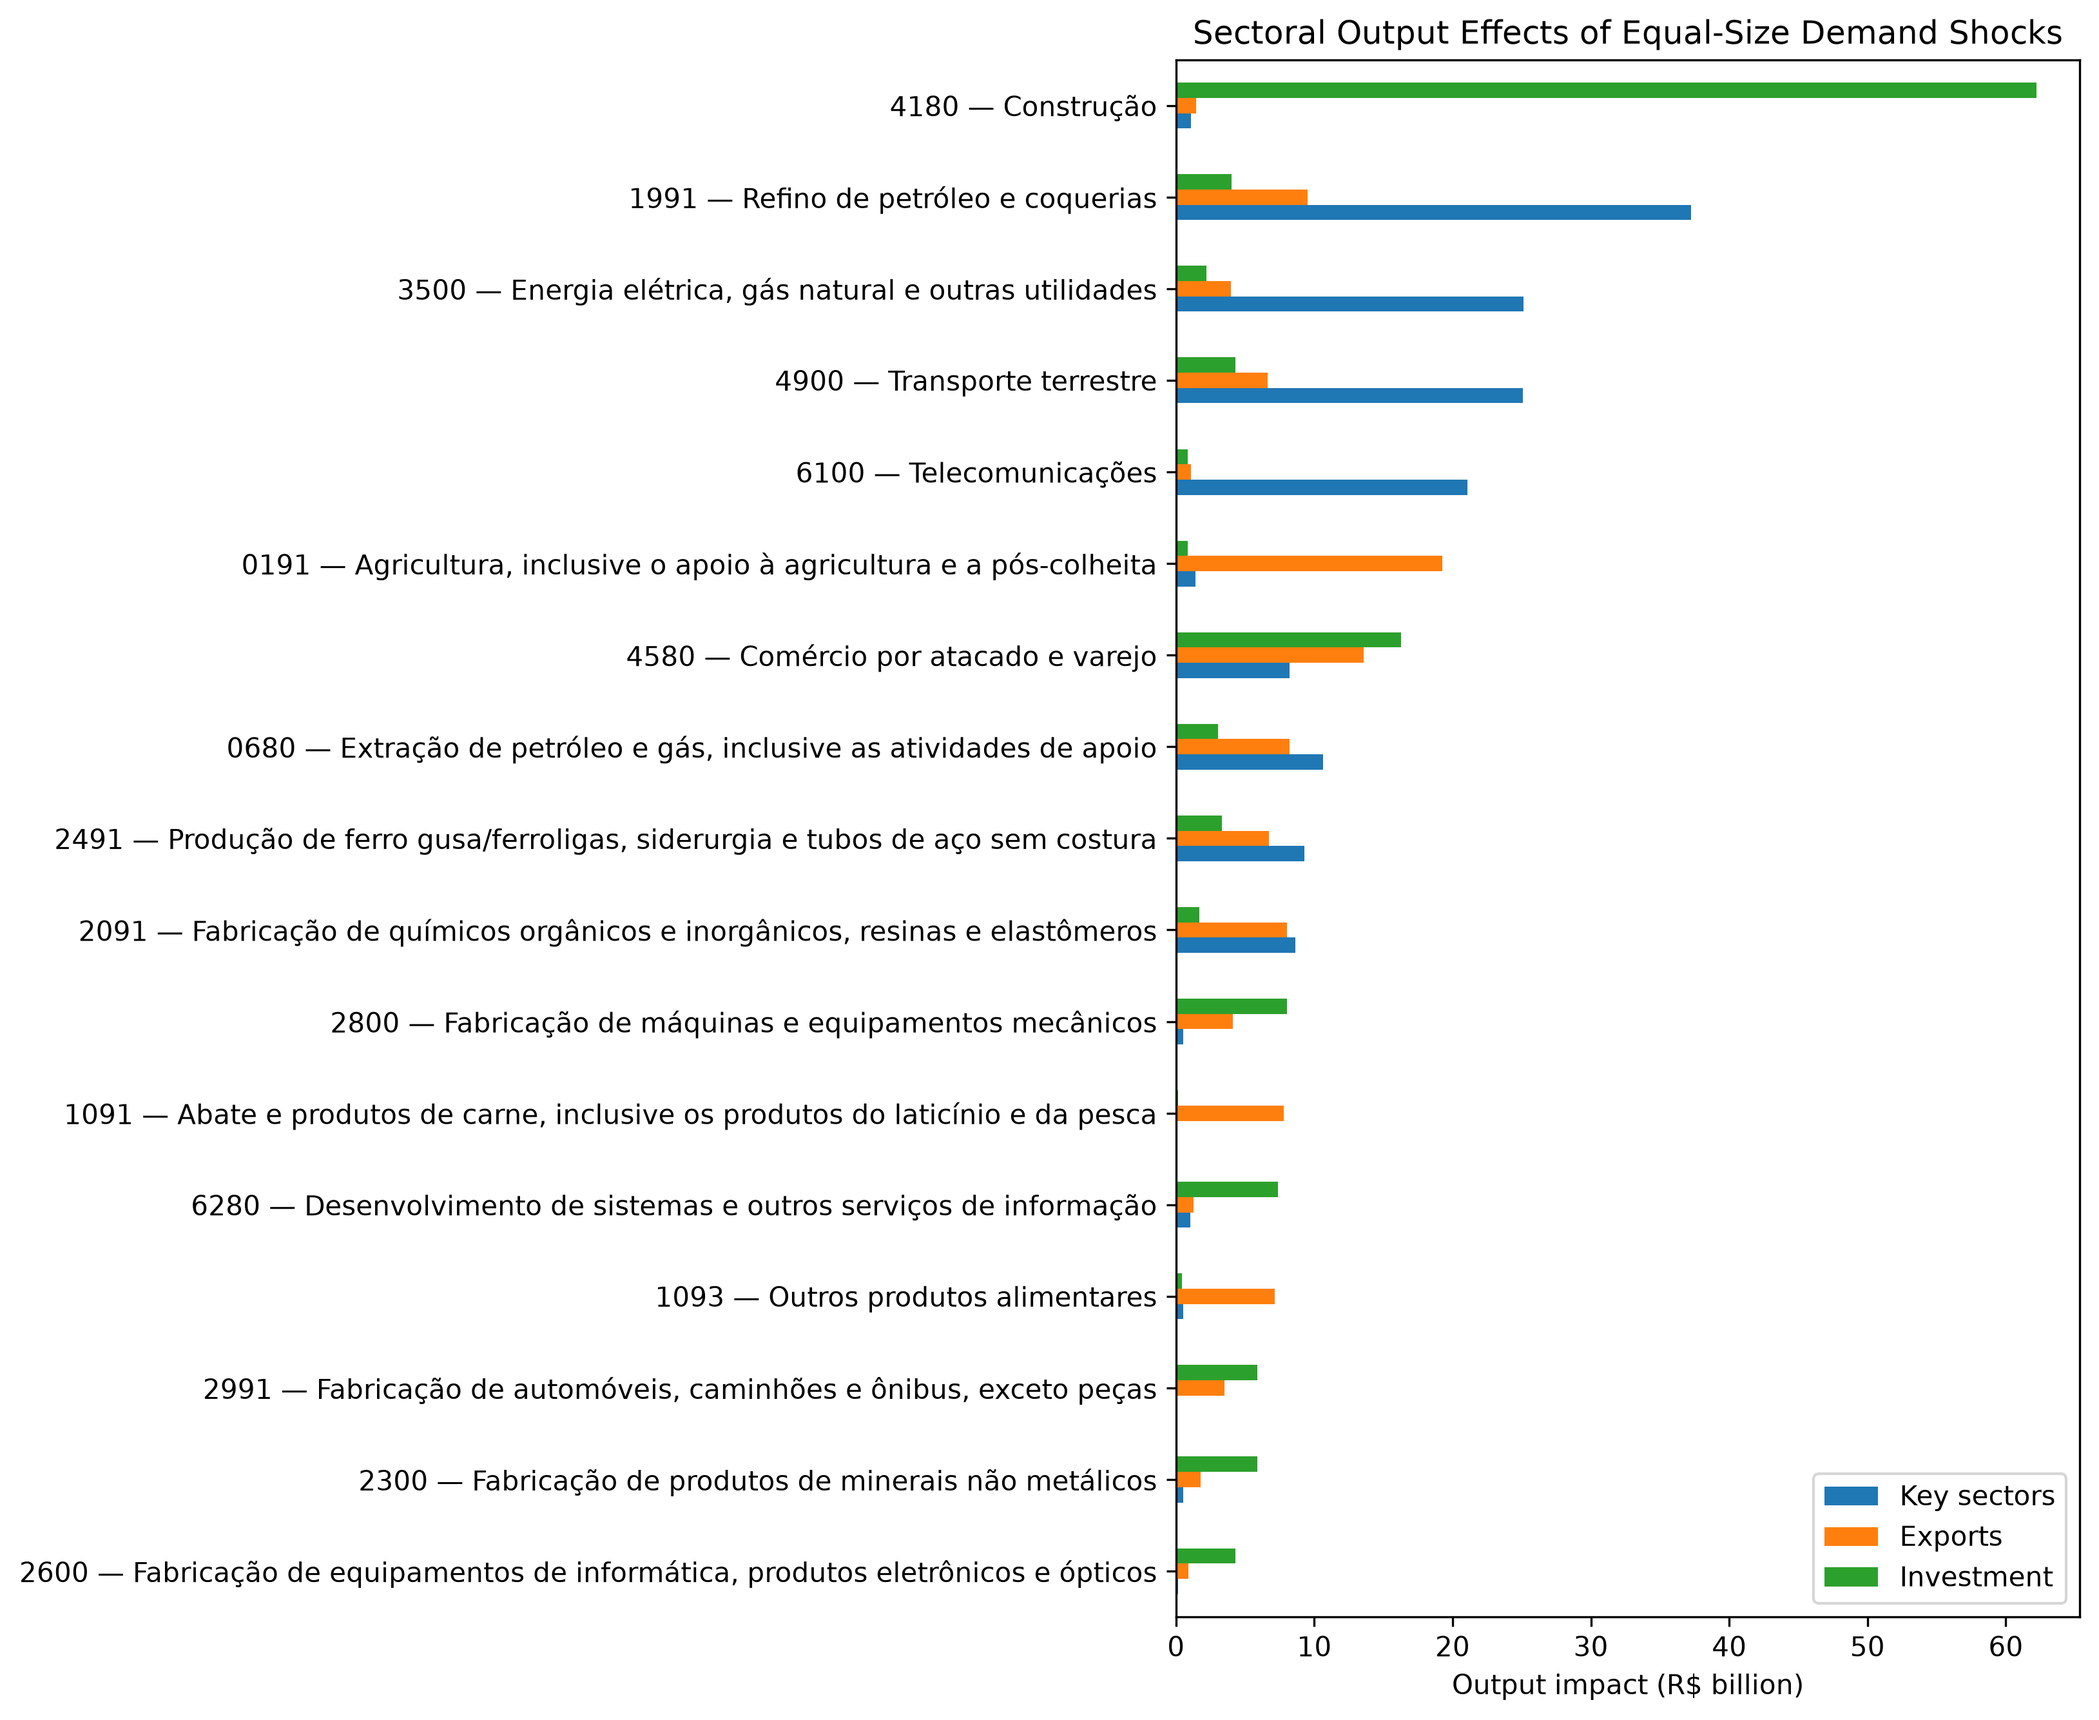
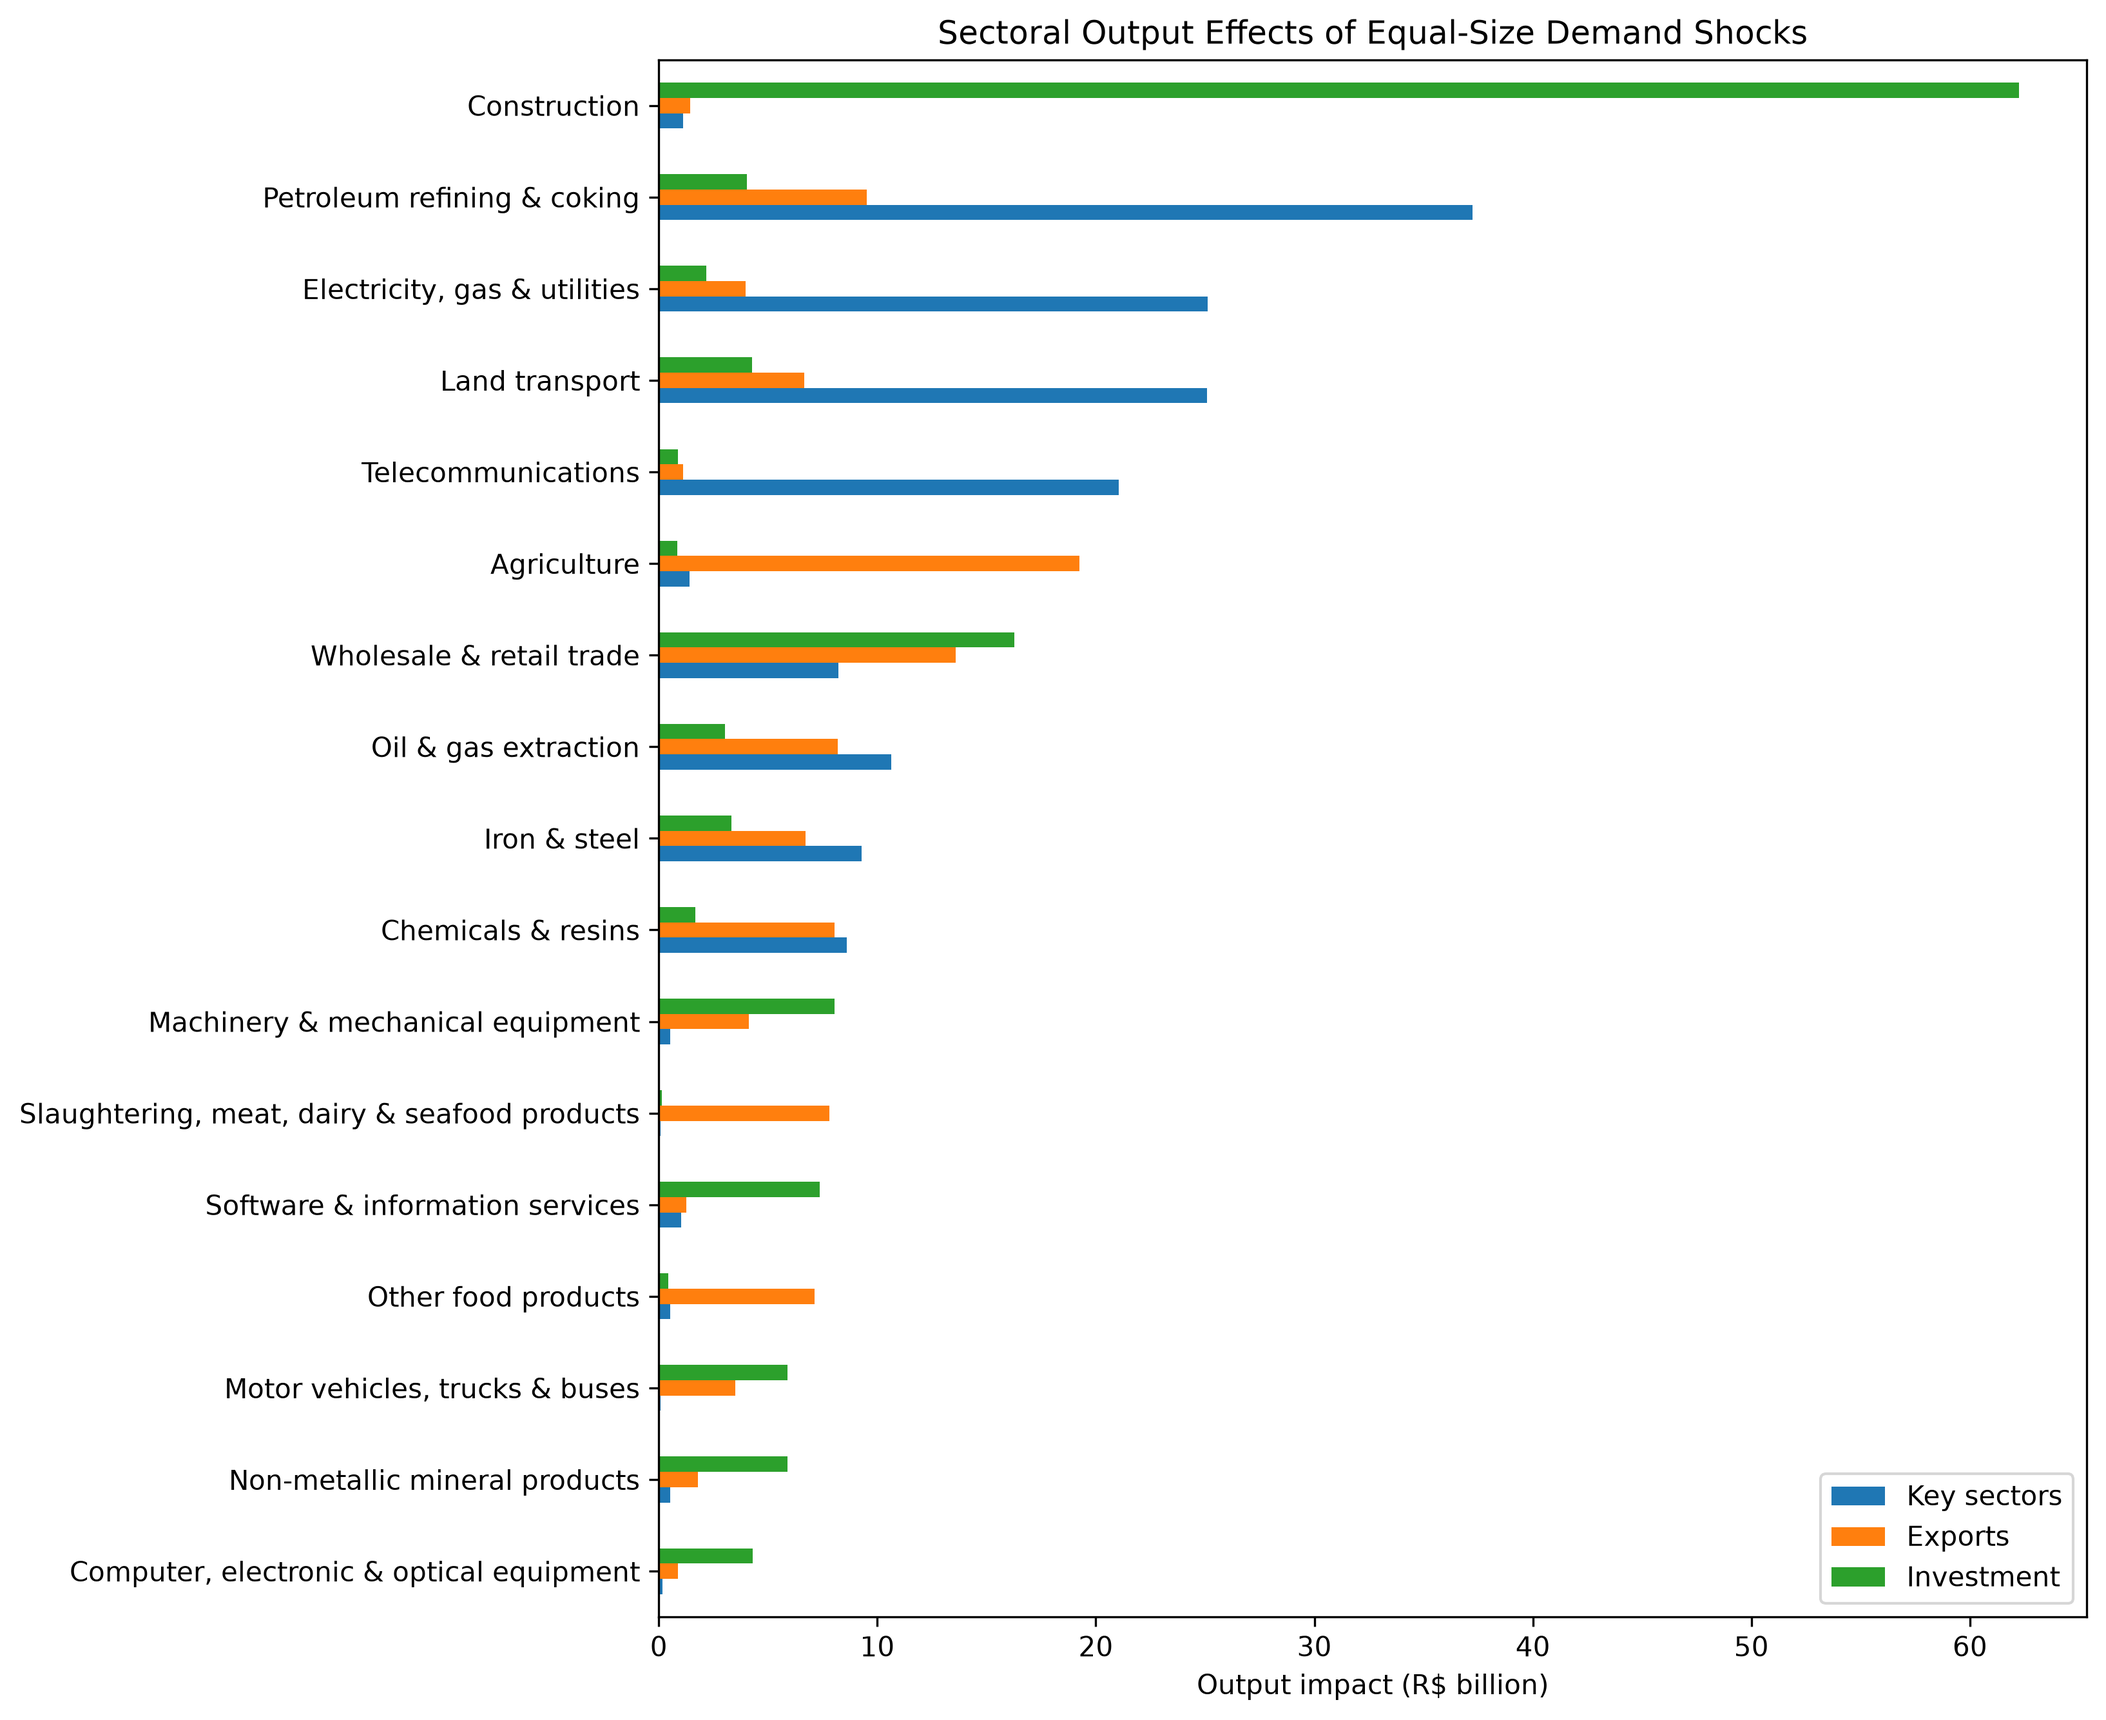
fix: standardize input-output figure labels in English

diff --git a/src/python/input_output/labels.py b/src/python/input_output/labels.py
@@ -1,0 +1,78 @@
+SECTOR_NAME_EN = {
+    "0191": "Agriculture",
+    "0192": "Livestock farming",
+    "0280": "Forestry, fishing & aquaculture",
+    "0580": "Coal & non-metallic mining",
+    "0680": "Oil & gas extraction",
+    "0791": "Iron ore mining",
+    "0792": "Non-ferrous metal ore mining",
+    "1091": "Slaughtering, meat, dairy & seafood products",
+    "1092": "Sugar manufacturing & refining",
+    "1093": "Other food products",
+    "1100": "Beverage manufacturing",
+    "1200": "Tobacco products",
+    "1300": "Textile manufacturing",
+    "1400": "Apparel manufacturing",
+    "1500": "Footwear & leather products",
+    "1600": "Wood products",
+    "1700": "Pulp, paper, and paper products",
+    "1800": "Printing & recorded-media reproduction",
+    "1991": "Petroleum refining & coking",
+    "1992": "Biofuel manufacturing",
+    "2091": "Chemicals & resins",
+    "2092": "Pesticides, paints & other chemicals",
+    "2093": "Cleaning products, cosmetics & personal care",
+    "2100": "Pharmaceutical products",
+    "2200": "Rubber & plastics",
+    "2300": "Non-metallic mineral products",
+    "2491": "Iron & steel",
+    "2492": "Non-ferrous metals & foundries",
+    "2500": "Fabricated metal products",
+    "2600": "Computer, electronic & optical equipment",
+    "2700": "Electrical equipment",
+    "2800": "Machinery & mechanical equipment",
+    "2991": "Motor vehicles, trucks & buses",
+    "2992": "Motor vehicle parts & accessories",
+    "3000": "Other transport equipment",
+    "3180": "Furniture & miscellaneous manufacturing",
+    "3300": "Machinery & equipment repair and installation",
+    "3500": "Electricity, gas & utilities",
+    "3680": "Water, sewerage & waste management",
+    "4180": "Construction",
+    "4580": "Wholesale & retail trade",
+    "4900": "Land transport",
+    "5000": "Water transport",
+    "5100": "Air transport",
+    "5280": "Warehousing, transport support & postal services",
+    "5500": "Accommodation",
+    "5600": "Food services",
+    "5800": "Publishing & printing",
+    "5980": "TV, radio, film & sound activities",
+    "6100": "Telecommunications",
+    "6280": "Software & information services",
+    "6480": "Finance, insurance & pensions",
+    "6800": "Real estate activities",
+    "6980": "Legal, accounting, consulting & head offices",
+    "7380": "Other professional & technical services",
+    "7180": "Architecture, engineering, testing & R&D",
+    "7700": "Non-real-estate rental & intellectual property",
+    "7880": "Administrative & support services",
+    "8000": "Security & investigation services",
+    "8400": "Public administration, defense & social security",
+    "8591": "Public education",
+    "8592": "Private education",
+    "8691": "Public healthcare",
+    "8692": "Private healthcare",
+    "9080": "Arts, culture & entertainment",
+    "9480": "Associations & other personal services",
+    "9700": "Domestic services",
+}
+
+def sector_label(
+    sector_code: str,
+    sector_name_pt: str,
+    lang: str = "en",
+) -> str:
+    if lang == "en":
+        return SECTOR_NAME_EN.get(str(sector_code), sector_name_pt)
+    return sector_name_pt

diff --git a/notebooks/brazil_input_output_analysis.py b/notebooks/brazil_input_output_analysis.py
@@ -9,6 +9,7 @@
 from textwrap import fill
 
 from adjustText import adjust_text
+from input_output.labels import sector_label
 from input_output.linkages import rasmussen_hirschman
 from input_output.matrices import (
     build_leontief_inverse,
@@ -26,6 +27,8 @@ from input_output.shocks import (
     build_percentage_shock,
     rescale_shock_to_total,
 )
+
+lang = "en"
 
 # %% [markdown]
 # ## 1. Load official IBGE data
@@ -427,11 +430,22 @@ ax.set_title("Rasmussen-Hirschman Linkages — Brazil, 2015")
 
 ax.legend()
 
+key_linkages = key_linkages.copy()
+
+key_linkages["sector_label"] = key_linkages.apply(
+    lambda row: sector_label(
+        row["sector_code"],
+        row["sector_name"],
+        lang="en",
+    ),
+    axis=1,
+)
+
 texts = []
 
 for _, row in key_linkages.iterrows():
     label = fill(
-        row["sector_name"],
+        row["sector_label"],
         width=24,
     )
 
@@ -519,7 +533,7 @@ key_sector_table = (
     key_linkages[
         [
             "sector_code",
-            "sector_name",
+            "sector_label",
             "forward_linkage",
             "backward_linkage",
         ]
@@ -589,6 +603,15 @@ sector_scenario_impacts = pd.concat(
     ignore_index=True,
 )
 
+sector_scenario_impacts["sector_label"] = sector_scenario_impacts.apply(
+    lambda row: sector_label(
+        row["sector_code"],
+        row["sector_name"],
+        lang="en",
+    ),
+    axis=1,
+)
+
 sector_scenario_impacts["impact_billion"] = sector_scenario_impacts["total_output_impact"] / 1_000
 
 sector_scenario_impacts.head()
@@ -597,7 +620,7 @@ sector_scenario_impacts.head()
 impact_pivot = sector_scenario_impacts.pivot(
     index=[
         "sector_code",
-        "sector_name",
+        "sector_label",
     ],
     columns="scenario",
     values="impact_billion",
@@ -621,7 +644,7 @@ plot_sector_impacts = impact_pivot[
     ]
 ]
 
-plot_sector_impacts.index = [f"{code} — {name}" for code, name in plot_sector_impacts.index]
+plot_sector_impacts.index = [label for _, label in plot_sector_impacts.index]
 
 ax = plot_sector_impacts.plot(
     kind="barh",
